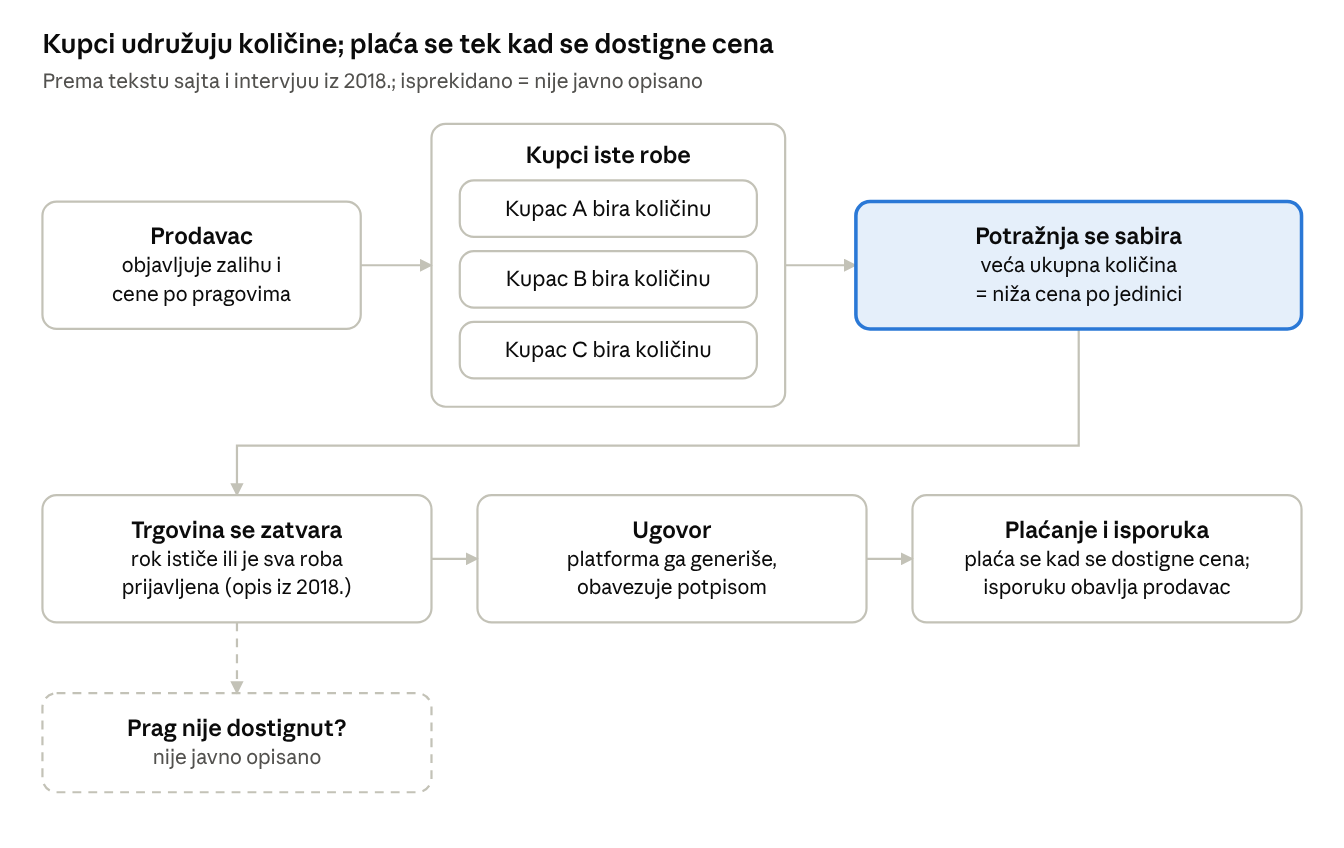
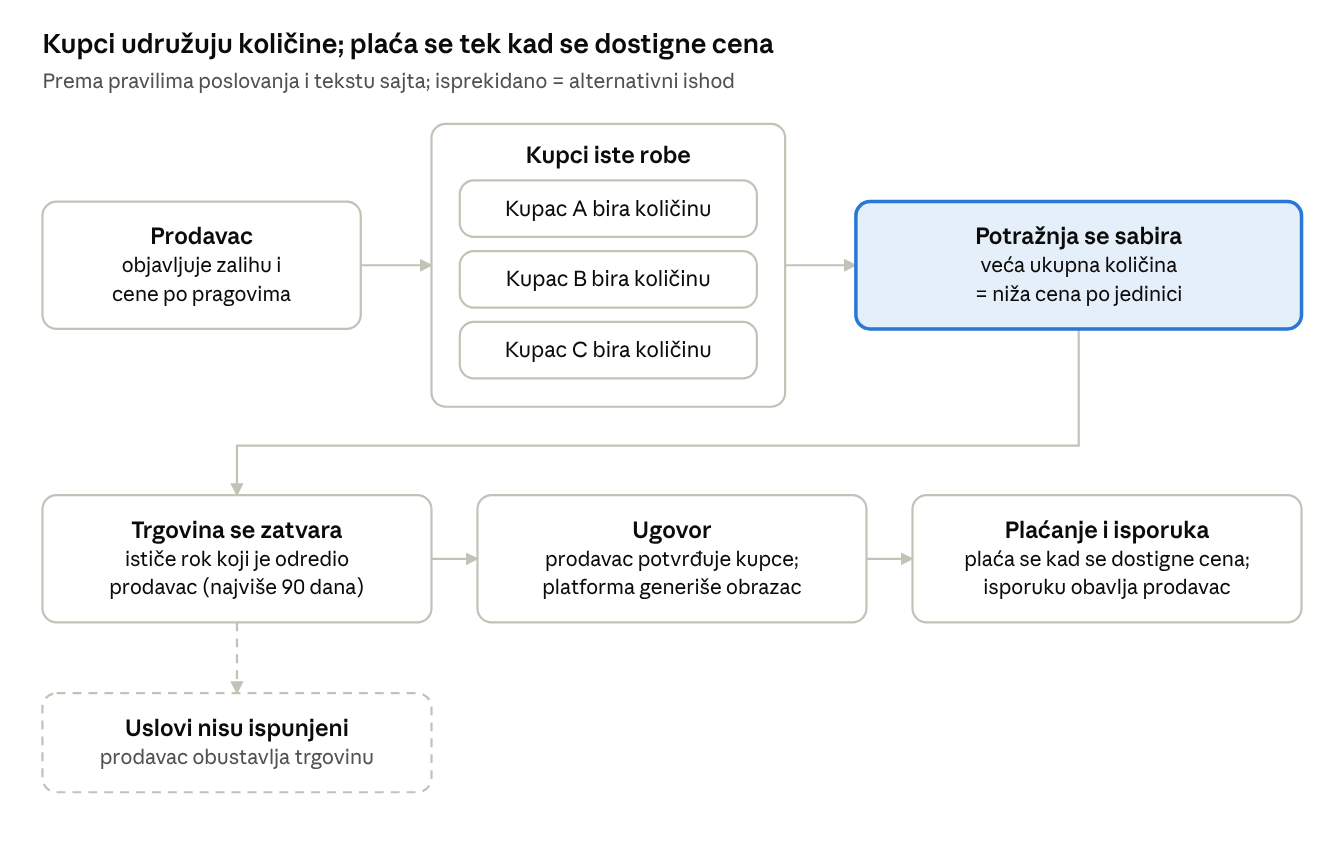
Update eBerza research with business rules and registration flow
Adds trading rules from the eBerza business rules document (90-day
offers, buyer purchase conditions, seller acceptance, deposit), the
registration form from client screenshots, observed UI colors, and the
client's decisions: B2B audience, no Remotion or similar code-based
video tools.

Claude-Session: https://claude.ai/code/session_016FmHsc8nRcGNcqnm4unpdH

diff --git a/research/eberza/faza-1-product-research-video-brief.md b/research/eberza/faza-1-product-research-video-brief.md
@@ -6,24 +6,26 @@
 
 ## Sažetak i metod istraživanja
 
-eBerza je B2B platforma za udruženu (grupnu) kupovinu: prodavac nudi cenu koja pada sa ukupnom količinom, a kupci se udružuju da zajedno stignu do nižeg praga. Osnovni model je jasan i dobro se objašnjava videom, ali nekoliko ključnih pravila (rok trgovine, šta ako se prag ne dostigne, provizije) nije javno potvrđeno.
+eBerza je B2B platforma za udruženu (grupnu) kupovinu: prodavac nudi cenu koja pada sa ukupnom količinom, a kupci se udružuju da zajedno stignu do nižeg praga. Osnovni model je jasan i dobro se objašnjava videom, a pravila trgovine sada su poznata iz dokumenta „Business rules on eBerza“. Otvoreni su još provizije, depozit kupca i izgled ekrana trgovine.
 
-**Važno ograničenje:** sajt eberza.rs i YouTube nisu mogli da se otvore iz ovog radnog okruženja. Mrežna politika okruženja dozvoljava samo GitHub i package managere. Zato sajt nisam pregledao vizuelno, niti sam video izgled ekrana, logo, boje i fontove.
+**Važno ograničenje:** sajt eberza.rs i YouTube nisu mogli da se otvore iz ovog radnog okruženja. Mrežna politika okruženja dozvoljava samo GitHub i package managere. Sajt sam video samo kroz vaše snimke ekrana stranice za registraciju; FAQ (eberza.rs/en/faq) takođe nije dostupan.
 
 Nalazi ispod potiču iz web pretrage: tekstovi stranica eberza.rs koje je pretraživač indeksirao i medijski članci. Pretraga vraća automatski sažet tekst, pa citati sa sajta moraju da se uporede sa živim sajtom pre nego što uđu u naraciju.
 
 | Izvor | Šta je dobijeno | Pouzdanost |
 | --- | --- | --- |
+| Snimci ekrana registracije (od klijenta, 16. 10. 2026.) | Ko može da se registruje, sva polja forme, navigacija, boje i izgled interfejsa | Direktno viđeno |
+| [Business rules on eBerza](https://eberza.com/api/documents/152/document) (dokument na eberza.com, EN) | Ponuda kupca, uslovi kupovine, rok do 90 dana, izbor kupaca, obustava, depozit, PDV, sporovi | Pravila platforme, posredno (izvodi preko pretrage) |
 | [eberza.rs/sr](https://eberza.rs/sr) (početna) | Opis platforme, navigacija: Kupci, Prodavci, Franšiza, Pravila, FAQ, Vesti; kontakt u footeru | Tekst sa sajta, posredno |
 | [eberza.rs/sr/buyers](https://eberza.rs/sr/buyers) | Poruke za kupce, poziv „Pridružite se besplatno“; footer sa godinom 2020 | Tekst sa sajta, posredno |
 | [eberza.rs/en/sellers](https://eberza.rs/en/sellers) | Poruke za prodavce (engleska verzija) | Tekst sa sajta, posredno; srpsku verziju treba uporediti |
 | [eberza.rs/en/franchise](https://eberza.rs/en/franchise) | Tok grupne kupovine, ugovor, odgovornost za isporuku | Tekst sa sajta, posredno |
-| [Danas, 2018](https://www.danas.rs/vesti/ekonomija/eberza-resenje-za-ulazak-srpskih-firmi-na-globalno-trziste/) | Mehanizam, primer sa peškirima, zatvaranje trgovine | Intervju sa osnivačima, star oko 8 godina |
+| [Danas, 2018](https://www.danas.rs/vesti/ekonomija/eberza-resenje-za-ulazak-srpskih-firmi-na-globalno-trziste/) | Mehanizam, primer sa peškirima | Intervju sa osnivačima, star oko 8 godina |
 | [Elektronsko bankarstvo, 27. 11. 2018.](https://www.elektronskobankarstvo.rs/e-berza-pomaze-srpskim-firmama-da-udju-na-globalno-trziste/) | Isti mehanizam, izjava jednog korisnika | Medij, star oko 8 godina |
 | [International Franchise Expo 2024](https://www.franchiseexpo.com/ife/exhibitors/afeja-belgrade) | B2B model, franšizni model, operator AFEJA | Profil izlagača (samoopis) |
 | [Facebook: „eBerza - pametna trgovina“](https://www.facebook.com/eberza.rs/) | Naziv stranice i slogan | Samo naslov stranice |
 
-**Nije provereno:** pun tekst stranica Pravila i FAQ, izgled sajta i tok posle prijave, aktivne ponude, vizuelni identitet i oba referentna videa. Referentne snimke nisam pogledao (sekcija o referencama).
+**Nije provereno:** FAQ, pun tekst pravila (samo izvodi), ekrani ponude i trgovine posle prijave, aktivne ponude, logo i oba referentna videa. Referentne snimke nisam pogledao (sekcija o referencama).
 
 ## 1. Šta je eBerza, jednostavno objašnjeno
 
@@ -40,29 +42,33 @@ Zvanični opis sa početne strane: „eberza je platforma koja povezuje kupce i 
 | Operator | „AFEJA“ d.o.o., Bulevar Oslobođenja 51, Beograd | Kontakt na sajtu |
 | Kontakt | eberza@afeja.com, +381 69 664557 | Kontakt na sajtu |
 | Pokrenuta | 2018. (predstavljena u medijima novembra 2018.) | Danas, Elektronsko bankarstvo |
-| Model | B2B: kupci i prodavci su firme (proizvođači, veleprodaje, distributeri) | Profil na Franchise Expo |
+| Ko učestvuje | Samo poslovni subjekti: firme, preduzetnici, vlasnici radnji i lica registrovana za obavljanje delatnosti; domaći i strani | Forma za registraciju; pravila poslovanja |
+| Uloga platforme | „Poziv na razmenu ponuda“, ne katalog robe; platforma ne određuje cene i ne garantuje isporuku | Pravila poslovanja; stranica o franšizi |
+| Cene | U dinarima, bez PDV-a (osim za strane učesnike) | Pravila poslovanja |
+| Sporovi | Ugovoreni sud ili ugovoreni arbitar | Pravila poslovanja |
 | Širenje | Teritorijalne franšize: franšizant promoviše platformu lokalnim firmama i pomaže korisnicima | [eberza.rs/en/franchise](https://eberza.rs/en/franchise) |
 | Jezici sajta | srpski (/sr) i engleski (/en) | URL-ovi stranica |
 
-**Otvoreno pitanje:** profil izlagača kaže da je model B2B, ali sajt objavljuje i obrazac za odustanak potrošača od ugovora na daljinu („Službeni glasnik RS“ 21/2022). Treba potvrditi da li i fizička lica mogu da kupuju.
+**Odgovoreno:** registracija je namenjena firmama, preduzetnicima i licima koja obavljaju registrovanu delatnost. Opis na stranici za registraciju: „Who engages in business activities, as well as owners of businesses and other individuals who carry out a business activity under a registered occupation.“ Video zato govori firmama i preduzetnicima, ne građanima.
 
 ## 2. Kako platforma funkcioniše, korak po korak
 
-Trgovina ima sedam koraka, od ponude do isporuke; koraci 5 i 7 opisani su samo u člancima iz 2018. i moraju se potvrditi. Oznake: **\[sajt\]** = tekst sa eberza.rs, **\[2018\]** = intervju u medijima, **\[?\]** = nije javno opisano.
+Trgovina ima osam koraka, od registracije do isporuke; pravila za korake 2–6 poznata su iz dokumenta „Business rules on eBerza“. Oznake: **\[pravila\]** = taj dokument, **\[sajt\]** = tekst sa eberza.rs, **\[registracija\]** = vaši snimci ekrana, **\[2018\]** = intervju u medijima, **\[?\]** = nije opisano.
 
-1. **Registracija.** Stranica za kupce nudi poziv „Pridružite se besplatno“ i dugme „Registrujte se“. \[sajt\] Koji se podaci traže (PIB, matični broj, verifikacija firme) nije poznato. \[?\]
-2. **Prodavac postavlja ponudu.** Oglašava celu zalihu i daje količinski popust „od–do“ po jedinici. Svaka količina ima svoju cenu: što se više robe kupi, cena je niža. \[sajt, 2018\] Popuste određuje prodavac, ne platforma. \[sajt\]
-3. **Kupac bira robu, količinu i uslove.** „Svaki kupac bira željenu količinu i uslove.“ \[sajt\] Prema opisu iz 2018., kupac unosi željenu robu, količinu i cenu. \[2018\]
-4. **Potražnja se sabira.** Drugi kupci iste robe rade isto, a njihove količine se objedinjuju. „Vi i drugi kupci možete se udružiti i zajedno naručiti veće količine, ostvarujući značajne popuste.“ \[sajt\]
-5. **Trgovina se zatvara.** Prodaja se zaključuje kada istekne rok ponude ili kada se prijavi onoliko kupaca koliko ima robe; roba se otkupljuje po najnižoj dostignutoj ceni. \[2018\] Ko određuje rok i šta se dešava ako prag nije dostignut, nije opisano. \[?\]
-6. **Ugovor.** Na kraju trgovine platforma generiše obrazac ugovora koji postaje pravno obavezujući potpisom. \[sajt\] Način potpisa (elektronski ili papirni) nije poznat. \[?\]
-7. **Plaćanje i isporuka.** Roba se plaća tek kada se dostigne željena cena. \[sajt\] Plaćanje ne ide preko portala, već po dogovoru kupca i prodavca. \[2018\] Isporuka je na adresu kupca ili dogovorenu lokaciju, a odgovornost je prodavčeva. \[sajt\]
+1. **Registracija firme.** Forma ima tri koraka. *Info*: korisničko ime, lozinka, e-pošta, naziv i pun naziv firme, telefon, država, grad, adresa. *Company*: PIB, matični broj, broj registracionog dokumenta, tekući račun, dokaz o upisu u registar, PDV broj (ako postoji), delatnost, oblik organizovanja, kontakt osoba i PR tekst do 1.100 znakova. *Networks*: društvene mreže, neobavezno. Obavezno je prihvatanje pravila. \[registracija\] Da li eBerza proverava priložena dokumenta, nije poznato. \[?\]
+2. **Prodavac objavljuje oglas.** Nudi zalihu uz tabelu količinskih popusta „od–do“ i sam određuje datum i čas završetka. Oglas traje najviše 90 dana; AFEJA ga izuzetno može produžiti. \[pravila\] Popuste određuje prodavac, ne platforma. \[sajt\]
+3. **Kupac daje ponudu.** Unosi tačnu količinu, bira cenu iz tabele „Quantity discount“ i uslov kupovine iz „Conditions of purchase“. Jedan uslov je kupovina po bilo kojoj ceni iz raspona, ali ne iznad cene koju je kupac ponudio. \[pravila\]
+4. **Potražnja se sabira.** Cena se formira iz zbira pojedinačnih ponuda registrovanih kupaca. Zbir nije zajednička ponuda: kupci ne odgovaraju jedni za druge. Ako ponuda poslednjeg kupca premaši preostalu količinu, on dobija samo ostatak. \[pravila\]
+5. **Izmena i povlačenje do roka.** Kupac može da izmeni, dopuni ili povuče ponudu do isteka oglasa, a posle toga ne može. Za kasnije povlačenje prodavac može da aktivira depozit koji je kupac dao kao garanciju ili da prihvati odustanak. \[pravila\] Iznos depozita i kada se plaća, nije opisano. \[?\]
+6. **Prodavac bira kupce.** Po isteku roka prodavac odlučuje kome dodeljuje ugovor; pravila preporučuju potvrdu izabranom kupcu u roku od 5 radnih dana. Ugovor nastaje kada kupac primi tu potvrdu. Ako uslovi nisu ispunjeni, preporuka je da prodavac obustavi trgovinu i obavesti kupce. \[pravila\]
+7. **Ugovor.** Platforma generiše obrazac ugovora koji postaje obavezujući potpisom. \[sajt\] Način potpisa nije poznat. \[?\]
+8. **Plaćanje i isporuka.** Roba se plaća tek kada se dostigne željena cena. \[sajt\] Plaćanje ide po dogovoru kupca i prodavca, ne preko portala. \[2018\] Isporuka je obaveza prodavca. \[sajt\] Vrstu i iznos poreza kupac saznaje posle zaključenja ugovora. \[pravila\]
 
 ![Tok grupne kupovine](assets/tok-grupne-kupovine.png)
 
-Osenčen korak, sabiranje potražnje, jeste srž poruke videa; isprekidani deo je pravilo koje izvori ne opisuju i koje klijent treba da potvrdi.
+Osenčen korak, sabiranje potražnje, jeste srž poruke videa; isprekidani deo je alternativni ishod: ako uslovi nisu ispunjeni, pravila preporučuju da prodavac obustavi trgovinu i obavesti kupce.
 
-**Privatnost i poverenje:** kupci nastupaju pod korisničkim imenom, a identitet kupca zna samo prodavac čiju robu kupuje. \[2018\] Posle trgovine učesnici vide uslove kupovine i isporuke i kontakt druge strane. \[sajt\] Prodavac koji ne ispunjava obaveze može biti isključen sa platforme. \[2018\]
+**Privatnost i poverenje:** kupci nastupaju pod korisničkim imenom, a identitet kupca zna samo prodavac čiju robu kupuje. \[2018\] Forma za registraciju nudi opciju „Shopping privacy“; da li je to isti izbor, treba potvrditi. \[registracija\] Prodavac može da odbije kupce koji su skoro kršili pravila, davali netačne podatke ili odbijali da potpišu ugovor. \[pravila\] Posle trgovine učesnici vide uslove kupovine i isporuke i kontakt druge strane. \[sajt\]
 
 **Ilustracija iz medija (2018., nije stvarna aktuelna ponuda):** prodavac nudi 100 peškira po 300 dinara, ponuda važi oko mesec dana. Kupcu trebaju tri peškira, koja u maloprodaji koštaju po 1.000 dinara; na eBerzi plaća 900 dinara. Ostalih 97 peškira u istom periodu kupuju drugi kupci.
 
@@ -73,14 +79,16 @@ Glavna korist za kupca: cena velike porudžbine bez obaveze da sam naruči celu 
 | Prednost | Šta kaže izvor | Izvor |
 | --- | --- | --- |
 | Niža cena kroz udruživanje | „Vi i drugi kupci možete se udružiti i zajedno naručiti veće količine, ostvarujući značajne popuste.“ | Stranica za kupce |
-| Kupuje koliko mu treba | Kupac uzima željenu količinu, a do cene stiže zajedno sa drugim kupcima iste robe | Danas, 2018. |
-| Nema plaćanja unapred | Roba se plaća tek kada se dostigne željena cena; kupac nije obavezan da odmah plati | Stranica o franšizi; Danas, 2018. |
+| Kupac sam postavlja granicu cene | Uslov kupovine: bilo koja cena iz raspona popusta, ali ne iznad cene koju je kupac ponudio | Pravila poslovanja |
+| Kupuje tačno koliko mu treba | Ponuda se daje za tačnu količinu koju kupac želi | Pravila poslovanja |
+| Bez zajedničke odgovornosti | Zbir ponuda nije zajednička ponuda; kupci ne odgovaraju jedni za druge | Pravila poslovanja |
+| Fleksibilnost do roka | Ponuda se može izmeniti, dopuniti ili povući do isteka oglasa | Pravila poslovanja |
+| Plaćanje tek po dostizanju cene | Roba se plaća tek kada se dostigne željena cena | Stranica o franšizi |
 | Besplatno učlanjenje | „Pridružite se besplatno“ | Stranica za kupce |
-| Pravna sigurnost | Na kraju trgovine generiše se ugovor, obavezujući potpisom | Stranica o franšizi |
-| Jasni uslovi | Uslovi kupovine, isporuke i kontakt prodavca su poznati učesnicima | Stranica o franšizi |
-| Diskrecija | Kupac nastupa pod korisničkim imenom; identitet zna samo prodavac | Danas, 2018. |
+| Pravna sigurnost | Ugovor obavezujući potpisom; sporovi pred ugovorenim sudom ili arbitrom | Stranica o franšizi; pravila |
+| Diskrecija | Kupac nastupa pod korisničkim imenom; pri registraciji postoji opcija „Shopping privacy“ | Danas, 2018.; forma za registraciju |
 
-**Šta video ne sme da tvrdi bez potvrde:** procenat uštede, garanciju isporuke (platforma je ne garantuje), da je korišćenje potpuno besplatno (provizije nisu poznate) i da kupac uvek dobija najnižu cenu.
+**Šta video ne sme da tvrdi bez potvrde:** procenat uštede; garanciju isporuke (platforma je ne garantuje); da je korišćenje potpuno besplatno (provizije nisu poznate); da kupac ništa ne plaća unapred (pravila pominju depozit kao garanciju); da kupac uvek dobija najnižu cenu; da su sve firme provereno pouzdane (provera dokumenata nije potvrđena).
 
 ## 4. Glavne prednosti za prodavce
 
@@ -91,10 +99,12 @@ Glavna korist za prodavca: jedna ponuda doseže više kupaca odjednom i prodaje 
 | Prodaja većih količina | „Whether you have excess inventory or are planning production, eBerza allows you to sell larger quantities of goods efficiently.“ | Stranica za prodavce (EN) |
 | Kupci dolaze sami | „Buyers search for your products on their own and join together for larger orders.“ | Stranica za prodavce (EN) |
 | Rast prodaje i dostupnosti | „As a seller, eBerza offers you a unique opportunity to increase the sales and availability of your products.“ | Stranica za prodavce (EN) |
-| Prodavac upravlja cenom | Prodavac sam određuje količinske popuste i pragove | Stranica o franšizi |
+| Prodavac upravlja uslovima | Sam određuje količinske popuste, pragove i rok oglasa (najviše 90 dana) | Stranica o franšizi; pravila |
+| Prodavac bira kupce | Po isteku roka odlučuje kome dodeljuje ugovor; može da odbije kupce koji su kršili pravila ili odbijali ugovor | Pravila poslovanja |
+| Zaštita od odustajanja | Za povlačenje posle roka može da aktivira depozit kupca; uz klauzulu u oglasu može da obustavi trgovinu ako jedan kupac odustane | Pravila poslovanja |
 | Rešava zalihe koje vezuju novac | Prodavci kroz „količinske popuste“ rešavaju problem plasmana postojećih zaliha | Danas, 2018. |
 | Planiranje proizvodnje | Jedan proizvođač (Li-kom plus, Gročka) naveo je da mu portal olakšava planiranje proizvodnje | Elektronsko bankarstvo, 2018. |
-| Ugovor po završetku | Platforma generiše ugovor; sporovi idu kroz ugovorni mehanizam | Stranica o franšizi |
+| Ugovor po završetku | Platforma generiše ugovor; sporovi idu pred ugovoreni sud ili arbitra | Stranica o franšizi; pravila |
 
 **Tvrdnje sa sajta koje treba proveriti pre upotrebe:** prema sažetku pretrage, engleska stranica pominje brži obrt zaliha „bez dodatnog ulaganja u marketing“ i „bez dodatnih troškova za izlazak na međunarodna tržišta“. Tačne formulacije nisu potvrđene, pa ih video za sada ne koristi. Izjava korisnika iz 2018. može u video samo uz njegovu saglasnost i proveru da je i danas aktuelna.
 
@@ -106,8 +116,8 @@ eBerza se obraća firmama na obe strane: onima koje imaju robu u većim količin
 
 **Ciljni korisnici (prema izvorima):**
 
-- **Prodavci:** proizvođači, veleprodaje i distributeri; posebno oni sa viškom zaliha ili planiranom proizvodnjom.
-- **Kupci:** firme koje nabavljaju robu, od male firme do većeg lanca, prema poruci sa sajta (tačnu formulaciju treba preuzeti sa živog sajta).
+- **Prodavci:** proizvođači, veleprodaje i distributeri, posebno oni sa viškom zaliha ili planiranom proizvodnjom. Prema pravilima to mogu biti registrovani preduzetnici, pravna lica, vlasnici radnji i lica registrovana za obavljanje delatnosti, domaći i strani.
+- **Kupci:** firme i preduzetnici koji nabavljaju robu. Registracija traži PIB, matični broj i dokaz o upisu u registar, pa građani nisu publika.
 - **Franšizanti:** partneri koji razvijaju mrežu na svojoj teritoriji; nisu publika ovog videa, osim ako se ne odluči drugačije.
 
 **Problemi koje platforma rešava:**
@@ -118,27 +128,31 @@ eBerza se obraća firmama na obe strane: onima koje imaju robu u većim količin
 
 |  | Klasična internet prodavnica | eBerza |
 | --- | --- | --- |
-| Ko određuje cenu | Prodavnica, ista cena za sve | Prodavac daje pragove; konačna cena zavisi od ukupne količine svih kupaca |
-| Odnos kupac–prodavac | Jedan na jedan, odmah | „Nije trgovina jedan na jedan“: više kupaca na jednoj ponudi |
+| Ko određuje cenu | Prodavnica, ista cena za sve | Prodavac daje pragove; cena se formira iz zbira ponuda svih kupaca |
+| Odnos kupac–prodavac | Jedan na jedan, odmah | „Nije trgovina jedan na jedan“: više kupaca na jednom oglasu |
+| Kupac bira | Količinu po fiksnoj ceni | Tačnu količinu, cenu iz tabele popusta i uslov kupovine |
 | Plaćanje | Odmah, pri porudžbini | Tek kad se dostigne željena cena, prema ugovoru |
-| Trenutak kupovine | Odmah po porudžbini | Kada se trgovina zatvori (rok ili rasprodata količina; potvrditi) |
-| Pravni okvir | Opšti uslovi prodavnice | Ugovor koji platforma generiše na kraju trgovine |
+| Trenutak kupovine | Odmah po porudžbini | Po isteku roka oglasa (do 90 dana), kada prodavac potvrdi kupce |
+| Pravni okvir | Opšti uslovi prodavnice | Ugovor koji platforma generiše; sporovi pred ugovorenim sudom ili arbitrom |
 | Isporuka | Prodavnica | Prodavac, na adresu kupca ili dogovorenu lokaciju |
 
 **Moguća zabuna koju video treba da preduhitri (moja procena):** „grupna kupovina“ u Srbiji se često veže za sajtove sa kuponima za usluge. eBerza nije sajt sa kuponima: nema unapred zadatog popusta, već cenu određuje ukupna količina robe.
 
 ## Vizuelni identitet
 
-Logo, boje, fontove i izgled sajta nisam mogao da vidim, pa ih ne opisujem i ne pretpostavljam. Iz teksta je poznato samo ono ispod; sve ostalo tražimo od klijenta.
+Vaši snimci ekrana pokazuju interfejs u tamnoplavoj, sivoplavoj i svetloplavoj boji, sa bordo akcentom i mnogo belog prostora. Logo nisam video. Boje ispod su uzorkovane sa snimaka i nisu zvanična paleta.
 
 | Element | Šta je poznato | Status |
 | --- | --- | --- |
-| Naziv | U upotrebi su „eBerza“ (Facebook, mediji), „e-Berza“ (naslov početne strane), „e-berza“ (stranica za kupce) i „eberza“ (tekst na sajtu) | Treba izabrati jedan oblik za video |
+| Naziv | U upotrebi su „eBerza“ (registracija, Facebook, mediji), „e-Berza“ (naslov početne strane), „e-berza“ (stranica za kupce) i „eberza“ (tekst na sajtu) | Interfejs koristi „eBerza“; potvrditi za video |
 | Slogan | „pametna trgovina“, iz naziva Facebook stranice | Potvrditi da li je aktuelan |
-| Zaštićeni znak | Prijava „EB EBERZA“ u SAD, broj 79374476, podneta 6. 4. 2023., vlasnik AFEJA ([Justia](https://trademarks.justia.com/793/74/eb-79374476.html)) | Izgled znaka i boje nisu viđeni |
-| Boje, fontovi, logo | Nepoznato | Potreban brand book ili logo u SVG formatu |
+| Zaštićeni znak | Prijava „EB EBERZA“ u SAD, broj 79374476, podneta 6. 4. 2023., vlasnik AFEJA ([Justia](https://trademarks.justia.com/793/74/eb-79374476.html)) | Izgled znaka nije viđen |
+| Logo | Nije viđen na snimcima | Potreban SVG |
+| Boje interfejsa (uzorak) | Tamnoplava #193965 (aktivno dugme); skoro crna plava #0B1A2D (naslovi); sivoplava #6E829E (opisi, neaktivno dugme); svetloplava #87CEEB do #9DD7EF (aktivni tab, linkovi, ikone); bordo #823A4C (dugme za čet, poruke o grešci u istoj nijansi); svetla roze-siva #F7EAEC (prelaz u footeru) | Približne vrednosti; bordo može biti boja čet-alata, ne brenda |
+| Font | Geometrijski sans-serif, zaobljenih oblika; naziv nije poznat | Proveriti u CSS-u ili brand book-u |
+| Stil interfejsa | Uske forme na belom, polja sa tankim okvirom i zaobljenim uglovima, ikonice uz tabove, navigacija: Buyers, Sellers, Franchise / eBerza, Regulation, FAQ, News | Viđeno na snimcima |
 | Ton komunikacije | Obraćanje sa „Vi“, kratke poruke u imperativu: „Pridružite se besplatno“, „Registrujte se“; EN naslov „Increase sales.“ | Iz teksta sajta |
-| Ažuriranost sajta | Footer stranice za kupce prikazuje godinu 2020. | Proveriti da li je sajt redizajniran |
+| Ažurnost sajta | Footer stranice za kupce prikazuje 2020.; registracija koristi Cloudflare Turnstile i ima dugme za čet | Proveriti godinu u footeru |
 
 **Potrebni materijali od klijenta:**
 
@@ -149,20 +163,21 @@ Logo, boje, fontove i izgled sajta nisam mogao da vidim, pa ih ne opisujem i ne 
 
 ## 5. Najvažnije funkcionalnosti za video
 
-U središtu videa treba da bude ponuda sa količinskim pragovima i trenutak kada udružena potražnja spusti cenu. Sve funkcije u tabeli postoje prema tekstu sajta, ali nijedan ekran nisam video. Zato je za svaku potreban stvarni snimak ili, gde ekran ne postoji, grafika označena kao ilustracija.
+U središtu videa treba da bude oglas sa količinskim pragovima i trenutak kada udružena potražnja spusti cenu. Od svih ekrana viđena je samo registracija; za ostale je potreban stvarni snimak, a gde ekran ne postoji, grafika označena kao ilustracija.
 
 | Prioritet | Funkcionalnost | Šta gledalac treba da vidi | Postojanje | Ekran |
 | --- | --- | --- | --- | --- |
-| 1 | Ponuda sa količinskim pragovima | Proizvod i tabela „od–do“ količina sa cenom po jedinici | Potvrđeno tekstom | Nije viđen |
-| 2 | Izbor količine i uslova | Kupac unosi količinu i uslove za ponudu | Potvrđeno tekstom | Nije viđen |
-| 3 | Udružena potražnja | Ukupna prijavljena količina raste i dostiže niži prag | Mehanizam potvrđen | Nije poznato da li sajt prikazuje napredak; ako ne, animacija označena kao ilustracija |
-| 4 | Zatvaranje trgovine i ugovor | Platforma generiše ugovor koji se potpisuje | Potvrđeno tekstom | Nije viđen |
-| 5 | Uslovi isporuke i kontakt | Učesnici vide uslove kupovine, isporuke i kontakt druge strane | Potvrđeno tekstom | Nije viđen |
-| 6 | Objava ponude (prodavac) | Prodavac postavlja proizvod, zalihu i pragove | Potvrđeno tekstom | Nije viđen |
-| 7 | Besplatna registracija | Dugme „Registrujte se“ i poruka „Pridružite se besplatno“ | Potvrđeno tekstom | Nije viđen |
-| 8 | Korisničko ime umesto naziva firme | Kupac nastupa pod korisničkim imenom | Samo izvor iz 2018. | Nije viđen |
+| 1 | Oglas sa količinskim pragovima | Proizvod, tabela „od–do“ količina sa cenom po jedinici, rok oglasa | Potvrđeno (pravila) | Nije viđen |
+| 2 | Ponuda kupca | Tačna količina, cena iz tabele popusta, uslov kupovine | Potvrđeno (pravila) | Nije viđen |
+| 3 | Udružena potražnja | Zbir ponuda raste i dostiže niži prag | Mehanizam potvrđen | Nije poznato da li sajt prikazuje zbir; ako ne, animacija označena kao ilustracija |
+| 4 | Prodavac bira kupce | Po isteku roka prodavac potvrđuje izabrane kupce | Potvrđeno (pravila) | Nije viđen |
+| 5 | Ugovor | Platforma generiše obrazac ugovora koji se potpisuje | Potvrđeno tekstom | Nije viđen |
+| 6 | Uslovi isporuke i kontakt | Učesnici vide uslove kupovine, isporuke i kontakt druge strane | Potvrđeno tekstom | Nije viđen |
+| 7 | Izmena ili povlačenje ponude | Kupac menja ponudu do isteka roka | Potvrđeno (pravila) | Nije viđen |
+| 8 | Registracija firme | Tri koraka (Info, Company, Networks); PIB, matični broj, dokaz o upisu u registar | Potvrđeno | Viđen (vaši snimci) |
+| 9 | Diskretna kupovina | Opcija „Shopping privacy“ pri registraciji | Opcija postoji; značenje potvrditi | Viđen (polje za izbor) |
 
-**Preporuka za snimanje:** kontrolisani demo nalozi, jedan kupac i jedan prodavac, i test-ponuda sa izmišljenim proizvodom, označenom kao primer. Tako se ceo tok može snimiti bez prikazivanja stvarnih firmi i cena.
+**Preporuka za snimanje:** kontrolisani demo nalozi, jedan kupac i jedan prodavac, i test-oglas sa izmišljenim proizvodom, označenim kao primer. Tako se ceo tok može snimiti bez prikazivanja stvarnih firmi i cena. Registracija je dugačka (tri koraka i prilozi), pa je u videu treba prikazati kratko, kao poruku da učestvuju samo registrovane firme.
 
 ## 6. Najčešće nedoumice koje video treba da razjasni
 
@@ -170,18 +185,20 @@ Nedoumice označene sa „Da“ imaju odgovor u izvorima i mogu odmah u scenario
 
 | Nedoumica gledaoca | Odgovor iz izvora | Spremno za video |
 | --- | --- | --- |
-| Moram li da platim unapred? | Ne; roba se plaća tek kada se dostigne željena cena | Da |
+| Ko može da učestvuje? | Firme, preduzetnici i registrovane delatnosti, domaći i strani | Da |
+| Da li mogu da platim više nego što želim? | Ne, ako izabere uslov „ne iznad ponuđene cene“ | Da |
 | Ko isporučuje robu? | Prodavac, na adresu kupca ili dogovorenu lokaciju | Da |
-| Da li je kupovina pravno sigurna? | Na kraju trgovine generiše se ugovor, obavezujući potpisom | Da |
+| Da li je kupovina pravno sigurna? | Ugovor obavezujući potpisom; sporovi pred ugovorenim sudom ili arbitrom | Da |
 | Da li je učlanjenje besplatno? | Za kupce: „Pridružite se besplatno“ | Da, samo za registraciju |
-| Šta ako se ne skupi dovoljno kupaca? | Nije opisano | Ne |
-| Da li moram da kupim ako cena ne padne do moje? | Nije opisano | Ne |
-| Koliko traje jedna trgovina i ko određuje rok? | 2018.: oko mesec dana u primeru; pravilo nije opisano | Ne |
-| Ko vidi moje podatke? | 2018.: korisničko ime; identitet zna samo prodavac | Posle potvrde |
-| Ko može da kupuje: samo firme ili i građani? | Nejasno (B2B, ali i obrazac za potrošače) | Ne |
+| Koliko traje trgovina i ko određuje rok? | Rok određuje prodavac, najviše 90 dana | Da |
+| Mogu li da se predomislim? | Da, do isteka roka; posle toga prodavac može da aktivira depozit | Da, uz pomen depozita |
+| Odgovaram li za druge kupce? | Ne; zbir ponuda nije zajednička ponuda | Da |
+| Šta ako se ne skupi dovoljno kupaca? | Preporuka: prodavac obustavlja trgovinu i obaveštava kupce | Posle potvrde (preporuka, ne obaveza) |
+| Moram li da platim unapred? | Roba se plaća kad se dostigne cena; pravila pominju depozit kao garanciju | Posle potvrde depozita |
+| Ko vidi moje podatke? | Korisničko ime; opcija „Shopping privacy“ | Posle potvrde |
 | Koliko košta prodavca? | Provizija ili članarina nisu javno opisane | Ne |
 | Koju robu mogu da prodam? | Kategorije nisu poznate | Ne |
-| Po čemu se razlikuje od sajtova sa kuponima? | Cena zavisi od ukupne količine, ne od unapred zadatog popusta | Da |
+| Po čemu se razlikuje od sajtova sa kuponima? | Cena zavisi od zbira ponuda, ne od unapred zadatog popusta | Da |
 
 ## Analiza referentnih video-snimaka
 
@@ -202,52 +219,65 @@ Oba referentna videa nisam pogledao i ne mogu da ih analiziram: YouTube nije dos
 
 ## 7. Informacije za potvrdu pre produkcije
 
-Pre kreativne faze potrebni su odgovori na 23 pitanja; prvih sedam određuje kako će scenario objasniti trgovinu. Odgovore možete upisati direktno u kolonu „Odgovor“.
+Otvoreno je još 21 od 27 pitanja; šest je odgovoreno iz pravila poslovanja i vaših snimaka, a odgovore iz pravila treba samo potvrditi. Pitanja 1–10 određuju kako će scenario objasniti trgovinu. Odgovore možete upisati direktno u kolonu „Odgovor“.
 
 | # | Tema | Pitanje | Zašto je važno | Odgovor |
 | --- | --- | --- | --- | --- |
-| 1 | Pravila | Ko određuje rok trgovine i koliko ona obično traje? | Scena primera grupne kupovine |  |
-| 2 | Pravila | Kada se trgovina zatvara: istekom roka, rasprodajom količine ili dostizanjem praga? | Kraj primera u videu |  |
-| 3 | Pravila | Šta se dešava ako se željeni prag ne dostigne? Može li kupac da odustane? | Najčešća nedoumica kupaca |  |
-| 4 | Pravila | Da li kupac danas unosi i „željenu cenu“ ili samo količinu? | Prikaz izbora na ekranu |  |
+| 1 | Pravila | Ko određuje rok trgovine i koliko ona obično traje? | Scena primera grupne kupovine | Prodavac; najviše 90 dana (pravila) |
+| 2 | Pravila | Kada se trgovina zatvara? | Kraj primera u videu | Istekom roka iz oglasa; zatim prodavac bira kupce, preporučeno u roku od 5 radnih dana (pravila) |
+| 3 | Pravila | Šta se dešava ako se željeni prag ne dostigne? Može li kupac da odustane? | Najčešća nedoumica kupaca | Preporuka: prodavac obustavlja trgovinu i obaveštava kupce; kupac može da povuče ponudu do roka (pravila) |
+| 4 | Pravila | Da li kupac unosi „željenu cenu“ ili samo količinu? | Prikaz izbora na ekranu | Tačnu količinu, cenu iz tabele popusta i uslov kupovine (pravila) |
 | 5 | Pravila | Postoji li minimalna količina po kupcu ili po trgovini? | Primer sa brojevima |  |
 | 6 | Pravila | Kako se potpisuje ugovor: elektronski ili na papiru? | Scena ugovora |  |
-| 7 | Pravila | Kako i kada se plaća: direktno prodavcu, avansno, u kom roku? | Poruka „bez plaćanja unapred“ |  |
-| 8 | Učesnici | Ko može da kupuje: samo firme i preduzetnici ili i fizička lica? | Publika i jezik videa |  |
-| 9 | Učesnici | Kako izgleda registracija firme i da li se firma verifikuje? | Scena registracije, poverenje |  |
-| 10 | Učesnici | Da li kupci u trgovini vide jedni druge i ukupnu prijavljenu količinu? | Animacija udruživanja |  |
-| 11 | Troškovi | Da li prodavac plaća proviziju, članarinu ili objavu ponude? Ima li troškova za kupca? | Poruka o ceni korišćenja |  |
-| 12 | Ponuda | Koje kategorije robe su danas aktivne? Smemo li da prikažemo stvarne ponude? | Snimci ekrana, primer proizvoda |  |
-| 13 | Ponuda | Da li se mogu nuditi i usluge, ili samo roba? | Obuhvat poruke |  |
-| 14 | Platforma | Da li je sajt menjan od 2020. ili se redizajn planira pre snimanja? | Snimci ne smeju brzo da zastare |  |
-| 15 | Platforma | Možete li otvoriti demo nalog kupca i prodavca i test-ponudu za snimanje? | Autentičan prikaz toka |  |
-| 16 | Kampanja | Glavni cilj: registracija kupaca, prodavaca ili oba? Koji je jedan glavni poziv na akciju? | Struktura i završetak videa |  |
-| 17 | Kampanja | Gde će se video koristiti: sajt, YouTube, LinkedIn, sajmovi, prodajni sastanci? | Trajanje, titlovi, formati |  |
-| 18 | Kampanja | Da li video pominje franšizu ili samo kupce i prodavce? | Obuhvat poruke |  |
-| 19 | Kampanja | Treba li i engleska verzija? | Naracija, titlovi, grafika |  |
-| 20 | Brend | Koji je zvanični oblik naziva (eBerza ili e-Berza) i da li je „pametna trgovina“ aktuelan slogan? | Grafika i naracija |  |
-| 21 | Brend | Logo (SVG), boje (HEX), fontovi, brand book i postojeći materijali? | Vizuelna doslednost |  |
-| 22 | Dokazi | Postoje li stvarni korisnici ili rezultati koje smemo da navedemo, uz njihovu saglasnost? | Kredibilitet bez izmišljanja |  |
-| 23 | Pristup | Možete li dodati eberza.rs u dozvoljene domene okruženja, ili poslati snimke ekrana i tekst stranica Pravila i FAQ? | Provera svih nalaza na živom sajtu |  |
+| 7 | Pravila | Kako i kada se plaća: direktno prodavcu, avansno, u kom roku? | Poruka o plaćanju |  |
+| 8 | Pravila | Depozit kupca: da li je obavezan, koliki je i kada se daje? | Poruka „plaća se tek kad se dostigne cena“ |  |
+| 9 | Pravila | Koji su svi uslovi kupovine u „Conditions of purchase“? | Prikaz ponude kupca |  |
+| 10 | Pravila | Da li je dokument „Business rules on eBerza“ aktuelan i postoji li na srpskom? | Svi nalazi iz pravila |  |
+| 11 | Učesnici | Ko može da kupuje: samo firme i preduzetnici ili i fizička lica? | Publika i jezik videa | Firme, preduzetnici i registrovane delatnosti (forma za registraciju) |
+| 12 | Učesnici | Kako izgleda registracija firme i da li se firma verifikuje? | Scena registracije, poverenje | Tri koraka, PIB, matični broj i dokaz o upisu (snimci); otvoreno je da li eBerza proverava dokumenta |
+| 13 | Učesnici | Šta tačno uključuje opcija „Shopping privacy“? | Poruka o diskreciji |  |
+| 14 | Učesnici | Da li kupci u trgovini vide jedni druge i ukupnu prijavljenu količinu? | Animacija udruživanja |  |
+| 15 | Troškovi | Da li platforma naplaćuje proviziju ili članarinu, kome i koliko? Stranica o franšizi pominje udeo franšizanta od 1,5% po transakciji. | Poruka o ceni korišćenja |  |
+| 16 | Ponuda | Koje kategorije robe su danas aktivne? Smemo li da prikažemo stvarne oglase? | Snimci ekrana, primer proizvoda |  |
+| 17 | Ponuda | Da li se mogu nuditi i usluge, ili samo roba? | Obuhvat poruke |  |
+| 18 | Platforma | Da li je sajt menjan od 2020. ili se redizajn planira pre snimanja? | Snimci ne smeju brzo da zastare |  |
+| 19 | Platforma | Možete li otvoriti demo nalog kupca i prodavca i test-oglas za snimanje? | Autentičan prikaz toka |  |
+| 20 | Kampanja | Glavni cilj: registracija kupaca, prodavaca ili oba? Koji je jedan glavni poziv na akciju? | Struktura i završetak videa |  |
+| 21 | Kampanja | Gde će se video koristiti: sajt, YouTube, LinkedIn, sajmovi, prodajni sastanci? | Trajanje, titlovi, formati |  |
+| 22 | Kampanja | Da li video pominje franšizu ili samo kupce i prodavce? | Obuhvat poruke |  |
+| 23 | Kampanja | Treba li i engleska verzija? | Naracija, titlovi, grafika |  |
+| 24 | Brend | Koji je zvanični oblik naziva (eBerza ili e-Berza) i da li je „pametna trgovina“ aktuelan slogan? | Grafika i naracija |  |
+| 25 | Brend | Logo (SVG), zvanične boje (HEX), fontovi, brand book i postojeći materijali? | Vizuelna doslednost |  |
+| 26 | Dokazi | Postoje li stvarni korisnici ili rezultati koje smemo da navedemo, uz njihovu saglasnost? | Kredibilitet bez izmišljanja |  |
+| 27 | Pristup | Možete li dodati eberza.rs i eberza.com u dozvoljene domene okruženja, ili poslati tekst stranica FAQ i Pravila? | Provera svih nalaza na živom sajtu | Delimično: poslati su snimci registracije i link ka FAQ; FAQ i pravila još nisu otvoreni |
 
 ## Sledeći koraci
 
-Faza 2 (kreativni koncept) čeka vašu potvrdu i odgovore na pitanja 1–11 i 16. Do tada ne pravim koncepte, scenario, slike ni video.
+Faza 2 (kreativni koncept) čeka vašu potvrdu i odgovore na pitanja 5–10, 15 i 20. Do tada ne pravim koncepte, scenario, slike ni video.
 
-- [ ] Omogućiti pristup sajtu: dodati eberza.rs u dozvoljene domene okruženja ili poslati snimke ekrana i tekst stranica Pravila i FAQ
-- [ ] Poslati materijal za referentne videe (YouTube u dozvoljenim domenima, transkript sa snimcima ekrana ili MP4 fajlovi)
-- [ ] Odgovoriti na pitanja u sekciji 7
-- [ ] Poslati logo, boje, fontove i postojeće materijale
-- [ ] Otvoriti demo nalog kupca i prodavca za snimanje toka
+**Odluke klijenta (16. 10. 2026.):**
+
+- Video govori firmama i preduzetnicima (B2B), ne građanima.
+- Produkcija ne koristi Remotion ni slične alate koji video prave iz koda. Montaža i animacija rade se u klasičnim alatima, a izbor alata dolazi u fazi 4.
+
+* [x] Potvrditi publiku: firme i preduzetnici
+* [ ] Omogućiti pristup: dodati eberza.rs i eberza.com u dozvoljene domene okruženja ili poslati tekst stranica FAQ i Pravila (link ka FAQ je stigao, ali stranica nije dostupna iz okruženja)
+* [ ] Poslati materijal za referentne videe (YouTube u dozvoljenim domenima, transkript sa snimcima ekrana ili MP4 fajlovi)
+* [ ] Odgovoriti na otvorena pitanja u sekciji 7
+* [ ] Poslati logo, zvanične boje, fontove i postojeće materijale
+* [ ] Otvoriti demo nalog kupca i prodavca za snimanje toka
 
 Kada pristup bude omogućen, proveriću svaki citat iz ovog dokumenta na živom sajtu, dopuniti vizuelni identitet i analizirati reference.
 
 ## Izvori
 
+- Snimci ekrana stranice za registraciju (od klijenta, 16. 10. 2026.): `assets/registracija-*.png`
+- [Business rules on eBerza — pravila poslovanja, EN](https://eberza.com/api/documents/152/document) (posredno, izvodi preko pretrage)
 - [eberza.rs/sr — početna strana](https://eberza.rs/sr) (posredno, preko indeksa pretraživača)
 - [eberza.rs/sr/buyers — kupci](https://eberza.rs/sr/buyers) (posredno)
 - [eberza.rs/en/sellers — prodavci, EN](https://eberza.rs/en/sellers) (posredno)
 - [eberza.rs/en/franchise — franšiza, EN](https://eberza.rs/en/franchise) (posredno)
+- [eberza.rs/en/faq — FAQ](https://eberza.rs/en/faq) (nije otvoren; nije u indeksu pretraživača)
 - [Danas: „eBerza“ rešenje za ulazak srpskih firmi na globalno tržište (2018.)](https://www.danas.rs/vesti/ekonomija/eberza-resenje-za-ulazak-srpskih-firmi-na-globalno-trziste/)
 - [Elektronsko bankarstvo: E-berza pomaže srpskim firmama da uđu na globalno tržište (27. 11. 2018.)](https://www.elektronskobankarstvo.rs/e-berza-pomaze-srpskim-firmama-da-udju-na-globalno-trziste/)
 - [International Franchise Expo 2024 — profil izlagača eBerza](https://www.franchiseexpo.com/ife/exhibitors/afeja-belgrade)
